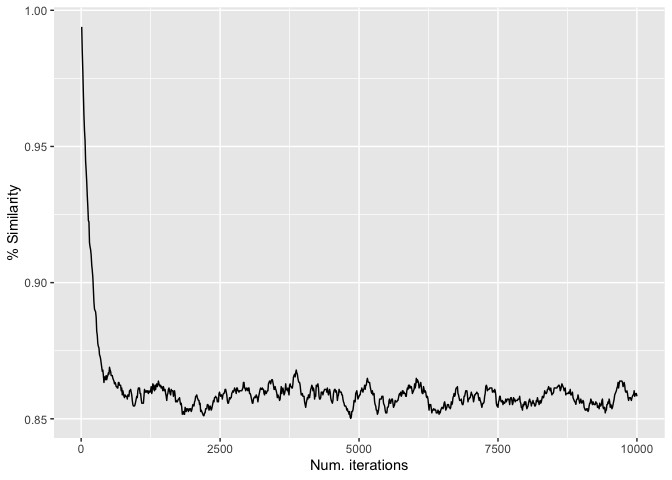
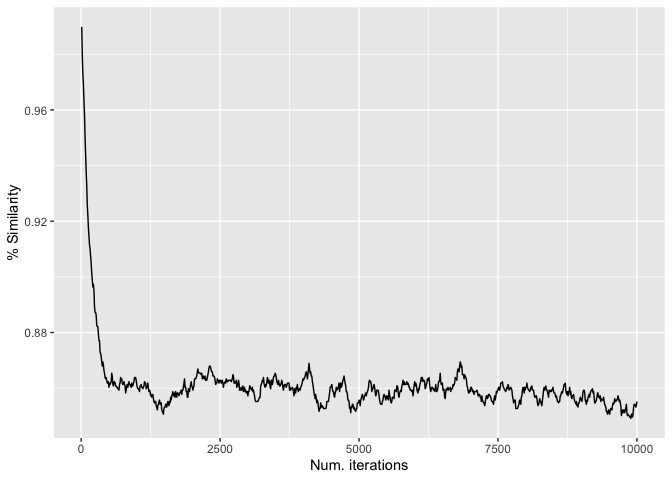
Update tutorial

diff --git a/tutorials/canaper.md b/tutorials/canaper.md
@@ -1,4 +1,5 @@
-# Spatial phylogenetics in R with canaper
+Spatial phylogenetics in R with canaper
+================
 
 This tutorial demonstrates how to use
 [`canaper`](https://github.com/ropensci/canaper) to conduct spatial
@@ -96,24 +97,15 @@ dim(acacia$comm)
 acacia$comm[1:8, 1:8]
 ```
 
-                      abbreviata acanthaster acanthoclada acinacea aciphylla acoma
-    -1025000:-1825000          0           0            0        0         0     0
-    -1025000:-1875000          0           0            0        0         0     0
-    -1025000:-1925000          0           0            0        0         0     0
-    -1025000:-1975000          0           0            0        0         0     0
-    -1025000:-2025000          0           0            0        0         0     0
-    -1025000:-2075000          0           0            0        0         0     0
-    -1025000:-2125000          0           0            0        0         0     0
-    -1025000:-2225000          0           0            0        0         0     0
-                      acradenia acrionastes
-    -1025000:-1825000         0           0
-    -1025000:-1875000         0           0
-    -1025000:-1925000         0           0
-    -1025000:-1975000         0           0
-    -1025000:-2025000         0           0
-    -1025000:-2075000         0           0
-    -1025000:-2125000         0           0
-    -1025000:-2225000         0           0
+                      abbreviata acanthaster acanthoclada acinacea aciphylla acoma acradenia acrionastes
+    -1025000:-1825000          0           0            0        0         0     0         0           0
+    -1025000:-1875000          0           0            0        0         0     0         0           0
+    -1025000:-1925000          0           0            0        0         0     0         0           0
+    -1025000:-1975000          0           0            0        0         0     0         0           0
+    -1025000:-2025000          0           0            0        0         0     0         0           0
+    -1025000:-2075000          0           0            0        0         0     0         0           0
+    -1025000:-2125000          0           0            0        0         0     0         0           0
+    -1025000:-2225000          0           0            0        0         0     0         0           0
 
 ## About randomizations
 
@@ -194,16 +186,16 @@ biod_iter_sim_res
     # A tibble: 1,000 × 2
        iteration similarity
            <int>      <dbl>
-     1        10      0.994
-     2        20      0.985
-     3        30      0.978
-     4        40      0.969
-     5        50      0.961
-     6        60      0.956
-     7        70      0.952
-     8        80      0.945
-     9        90      0.941
-    10       100      0.937
+     1        10      0.990
+     2        20      0.980
+     3        30      0.973
+     4        40      0.970
+     5        50      0.963
+     6        60      0.958
+     7        70      0.950
+     8        80      0.944
+     9        90      0.938
+    10       100      0.933
     # ℹ 990 more rows
 
 The output is simple: just two columns. But its hard to gain much
@@ -336,33 +328,29 @@ biod_example_rand_res <- cpr_rand_test(
 )
 ```
 
-    Warning: Abundance data detected. Results will be the same as if using
-    presence/absence data (no abundance weighting is used).
+    Warning: Abundance data detected. Results will be the same as if using presence/absence data (no abundance weighting is used).
 
 ``` r
 biod_example_rand_res
 ```
 
     # A tibble: 127 × 55
-       site    pd_obs pd_rand_mean pd_rand_sd pd_obs_z pd_obs_c_upper pd_obs_c_lower
-       <chr>    <dbl>        <dbl>      <dbl>    <dbl>          <dbl>          <dbl>
-     1 195000… 0.0469       0.0469   5.04e-18    1.38             491              0
-     2 195000… 0.0469       0.0469   5.01e-18    1.38             491              0
-     3 205000… 0.0931       0.0870   6.83e- 3    0.893            759            220
-     4 205000… 0.0469       0.0469   4.92e-18    0                458              0
-     5 215000… 0.0469       0.0469   4.95e-18   -1.40              11            525
-     6 215000… 0.0683       0.0869   6.95e- 3   -2.67               7            986
-     7 215000… 0.0931       0.0873   6.74e- 3    0.854            751            231
-     8 225000… 0.0469       0.0469   4.96e-18   -1.40              11            522
-     9 225000… 0.0931       0.0871   6.97e- 3    0.855            721            267
-    10 225000… 0.182        0.196    1.41e- 2   -1.00             162            838
+       site      pd_obs pd_rand_mean pd_rand_sd pd_obs_z pd_obs_c_upper pd_obs_c_lower pd_obs_q pd_obs_p_upper pd_obs_p_lower pd_alt_obs pd_alt_rand_mean pd_alt_rand_sd pd_alt_obs_z pd_alt_obs_c_upper pd_alt_obs_c_lower pd_alt_obs_q pd_alt_obs_p_upper pd_alt_obs_p_lower rpd_obs rpd_rand_mean rpd_rand_sd
+       <chr>      <dbl>        <dbl>      <dbl>    <dbl>          <dbl>          <dbl>    <dbl>          <dbl>          <dbl>      <dbl>            <dbl>          <dbl>        <dbl>              <dbl>              <dbl>        <dbl>              <dbl>              <dbl>   <dbl>         <dbl>       <dbl>
+     1 1950000:… 0.0469       0.0469   3.28e-18    2.12             777              0     1000          0.777          0         0.0690            0.162         0.0380       -2.44                  11                947         1000              0.011              0.947   0.680         0.317      0.140 
+     2 1950000:… 0.0469       0.0469   3.23e-18    2.15             784              0     1000          0.784          0         0.0690            0.162         0.0374       -2.49                   9                953         1000              0.009              0.953   0.680         0.316      0.154 
+     3 2050000:… 0.0931       0.0870   7.11e- 3    0.850            708            269     1000          0.708          0.269     0.172             0.231         0.0327       -1.79                  27                951         1000              0.027              0.951   0.540         0.385      0.0663
+     4 2050000:… 0.0469       0.0469   3.34e-18    2.08             769              0     1000          0.769          0         0.0690            0.162         0.0376       -2.48                  12                955         1000              0.012              0.955   0.680         0.318      0.172 
+     5 2150000:… 0.0469       0.0469   3.09e-18    0                  0            198     1000          0              0.198     0.155             0.160         0.0375       -0.132                232                452         1000              0.232              0.452   0.302         0.320      0.152 
+     6 2150000:… 0.0683       0.0866   7.26e- 3   -2.52              12            977     1000          0.012          0.977     0.172             0.230         0.0337       -1.72                  29                939         1000              0.029              0.939   0.396         0.384      0.0691
+     7 2150000:… 0.0931       0.0872   6.76e- 3    0.870            723            265     1000          0.723          0.265     0.172             0.232         0.0329       -1.80                  29                951         1000              0.029              0.951   0.540         0.384      0.0664
+     8 2250000:… 0.0469       0.0469   3.24e-18    0                  0            218     1000          0              0.218     0.155             0.160         0.0385       -0.125                235                457         1000              0.235              0.457   0.302         0.324      0.171 
+     9 2250000:… 0.0931       0.0869   7.30e- 3    0.850            720            257     1000          0.72           0.257     0.172             0.231         0.0326       -1.80                  30                941         1000              0.03               0.941   0.540         0.384      0.0694
+    10 2250000:… 0.182        0.197    1.44e- 2   -1.07             129            869     1000          0.129          0.869     0.276             0.372         0.0377       -2.56                   0                994         1000              0                  0.994   0.659         0.533      0.0518
     # ℹ 117 more rows
-    # ℹ 48 more variables: pd_obs_q <dbl>, pd_obs_p_upper <dbl>,
-    #   pd_obs_p_lower <dbl>, pd_alt_obs <dbl>, pd_alt_rand_mean <dbl>,
-    #   pd_alt_rand_sd <dbl>, pd_alt_obs_z <dbl>, pd_alt_obs_c_upper <dbl>,
-    #   pd_alt_obs_c_lower <dbl>, pd_alt_obs_q <dbl>, pd_alt_obs_p_upper <dbl>,
-    #   pd_alt_obs_p_lower <dbl>, rpd_obs <dbl>, rpd_rand_mean <dbl>,
-    #   rpd_rand_sd <dbl>, rpd_obs_z <dbl>, rpd_obs_c_upper <dbl>, …
+    # ℹ 33 more variables: rpd_obs_z <dbl>, rpd_obs_c_upper <dbl>, rpd_obs_c_lower <dbl>, rpd_obs_q <dbl>, rpd_obs_p_upper <dbl>, rpd_obs_p_lower <dbl>, pe_obs <dbl>, pe_rand_mean <dbl>, pe_rand_sd <dbl>, pe_obs_z <dbl>, pe_obs_c_upper <dbl>, pe_obs_c_lower <dbl>, pe_obs_q <dbl>, pe_obs_p_upper <dbl>,
+    #   pe_obs_p_lower <dbl>, pe_alt_obs <dbl>, pe_alt_rand_mean <dbl>, pe_alt_rand_sd <dbl>, pe_alt_obs_z <dbl>, pe_alt_obs_c_upper <dbl>, pe_alt_obs_c_lower <dbl>, pe_alt_obs_q <dbl>, pe_alt_obs_p_upper <dbl>, pe_alt_obs_p_lower <dbl>, rpe_obs <dbl>, rpe_rand_mean <dbl>, rpe_rand_sd <dbl>,
+    #   rpe_obs_z <dbl>, rpe_obs_c_upper <dbl>, rpe_obs_c_lower <dbl>, rpe_obs_q <dbl>, rpe_obs_p_upper <dbl>, rpe_obs_p_lower <dbl>
 
 There are a lot of columns. We can decipher what they mean though by
 using a few keywords: columns starting with `pd` are values of
@@ -415,9 +403,104 @@ count(biod_example_canape, endem_type)
     # A tibble: 3 × 2
       endem_type          n
       <chr>           <int>
-    1 mixed               7
-    2 not significant   118
+    1 mixed               5
+    2 not significant   120
     3 paleo               2
+
+## Plot results
+
+The final step is to plot the endemism categories.
+
+When working with your own data, the geographic information may be one
+of various formats.
+
+For this example dataset, information about the location of each site is
+embedded in the site name.
+
+``` r
+biod_example_canape %>%
+  select(site)
+```
+
+    # A tibble: 127 × 1
+       site           
+       <chr>          
+     1 1950000:1350000
+     2 1950000:1450000
+     3 2050000:1250000
+     4 2050000:1350000
+     5 2150000:1050000
+     6 2150000:1150000
+     7 2150000:1250000
+     8 2250000:1050000
+     9 2250000:1250000
+    10 2250000:950000 
+    # ℹ 117 more rows
+
+The number before the colon is position of the center of the site (its
+“centroid”) on the x-axis and the number after is position on the
+y-axis. This data happens to use a projection that is designed
+specifically for Australia, and the numbers are in units of meters. Each
+site is 50 x 50 km.
+
+So, in order to plot this, we need to split the x and y positions into
+separate columns:
+
+``` r
+biod_example_canape_geo <-
+  biod_example_canape %>%
+  separate(site, c("long", "lat"), sep = ":") %>%
+  mutate(across(c(long, lat), parse_number))
+
+select(biod_example_canape_geo, long, lat)
+```
+
+    # A tibble: 127 × 2
+          long     lat
+         <dbl>   <dbl>
+     1 1950000 1350000
+     2 1950000 1450000
+     3 2050000 1250000
+     4 2050000 1350000
+     5 2150000 1050000
+     6 2150000 1150000
+     7 2150000 1250000
+     8 2250000 1050000
+     9 2250000 1250000
+    10 2250000  950000
+    # ℹ 117 more rows
+
+Now we can plot the data.
+
+``` r
+ggplot(biod_example_canape_geo) +
+  geom_tile(aes(x = long, y = lat, fill = endem_type)) +
+  scale_fill_manual(values = mishler_endem_cols)
+```
+
+![](canaper_files/figure-commonmark/unnamed-chunk-14-1.png)
+
+`canaper` comes with palettes for endemism colors. Here, we have used
+the color scheme that appeared in the original publication of CANAPE,
+Mishler et al. 2014 (`mishler_endem_cols`). However, these colors may
+not be distinguishable to people with color vision deficiency. The
+`cpr_endem_cols` palette has been designed to take this into account.
+
+``` r
+ggplot(biod_example_canape_geo) +
+  geom_tile(aes(x = long, y = lat, fill = endem_type)) +
+  scale_fill_manual(values = cpr_endem_cols)
+```
+
+![](canaper_files/figure-commonmark/unnamed-chunk-15-1.png)
+
+In fact, there are several alternative color schemes available,
+`cpr_endem_cols_2` through `cpr_endem_cols_4`. You can try out different
+palettes to see which one works best for you.
+
+Note that we used `geom_tile` because the sites are located in a
+regularly spaced grid. This may not be the case with your own data. You
+may need to use other `geom_()` functions as needed.
 
 [^1]: You might think the dataset is all zeros, but that is not the
     case. It is just very sparse.
